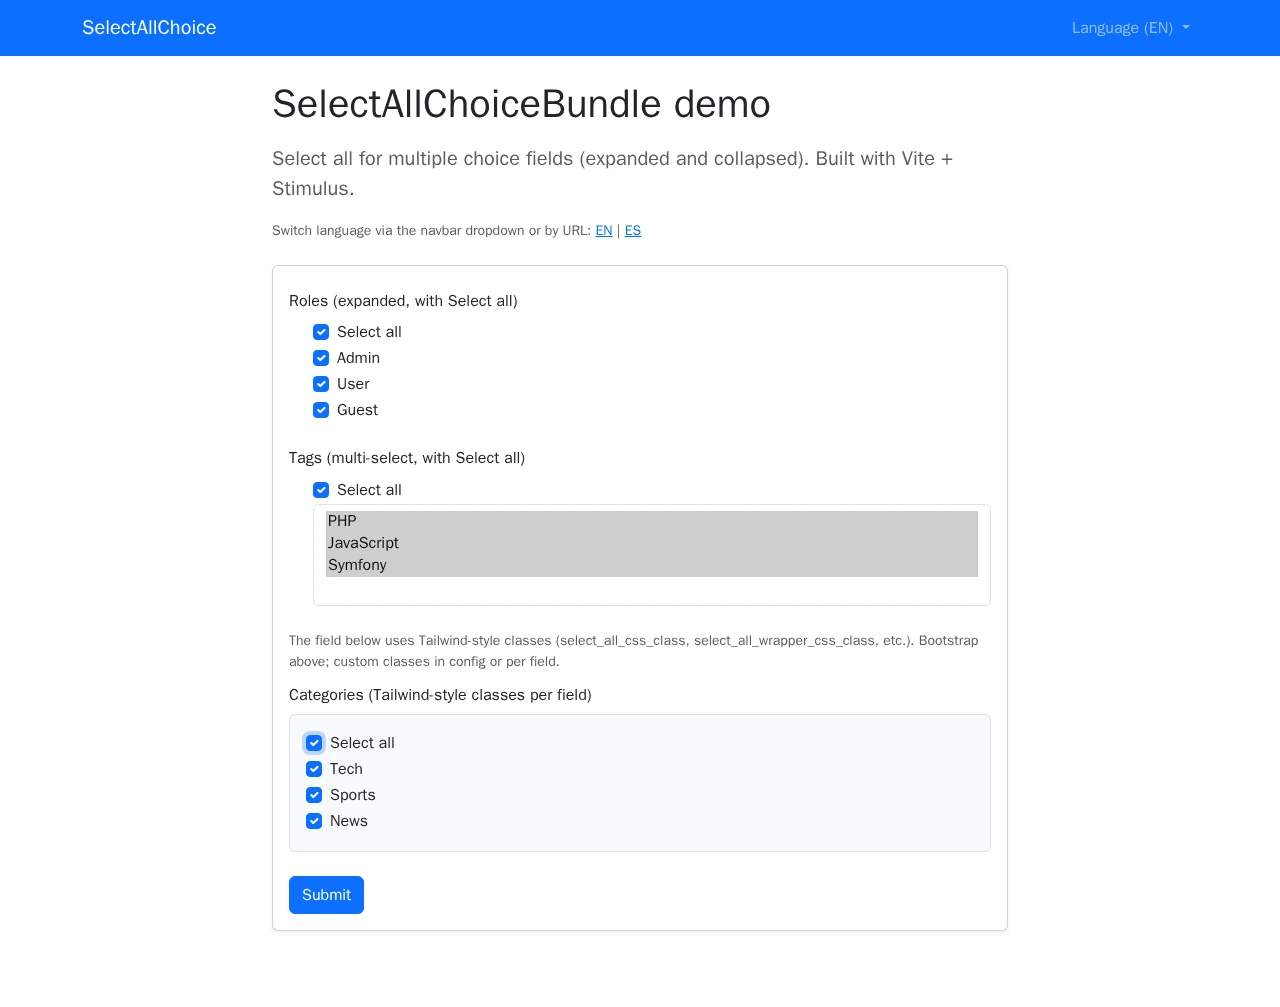
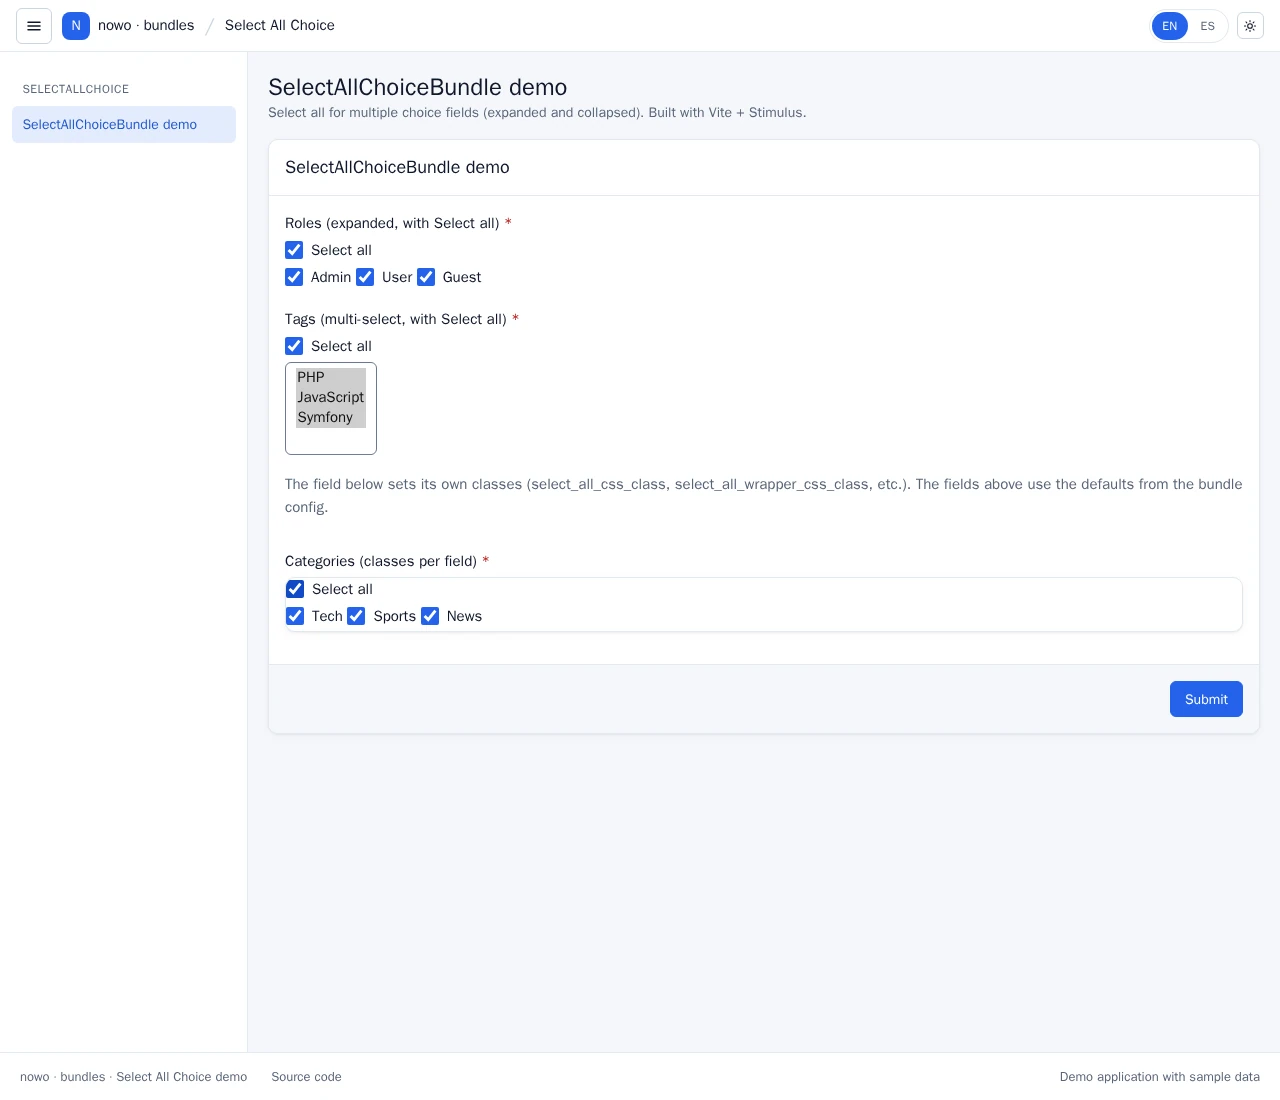
chore(demo): run the demo in UiKit's demo platform shell (#55)

diff --git a/demo/symfony8/e2e/tests/demo-platform.spec.ts b/demo/symfony8/e2e/tests/demo-platform.spec.ts
@@ -1,0 +1,184 @@
+import { test, expect, type Page } from '@playwright/test';
+import AxeBuilder from '@axe-core/playwright';
+
+/**
+ * UiKit demo platform shell (REQ-DEMO-014): layout grammar, demo styles, host theme tokens, framework classes, the
+ * closed phone drawer, 44 px touch targets and input borders on every demo page, plus axe (wcag2a / 2aa / 21a / 21aa,
+ * serious + critical = 0) in light and dark, desktop and phone, and the keyboard drawer pass.
+ */
+type Theme = 'light' | 'dark';
+type PageEntry = string | ((page: Page) => Promise<string>);
+
+async function prepare(_page: Page): Promise<void> {}
+
+async function setTheme(page: Page, theme: Theme): Promise<void> {
+  await page.evaluate((t) => {
+    document.documentElement.setAttribute('data-theme', t);
+    document.documentElement.setAttribute('data-bs-theme', t);
+  }, theme);
+}
+
+async function axe(page: Page): Promise<string[]> {
+  const result = await new AxeBuilder({ page }).withTags(['wcag2a', 'wcag2aa', 'wcag21a', 'wcag21aa']).exclude('.sf-toolbar').analyze();
+  return result.violations
+    .filter((v) => v.impact === 'serious' || v.impact === 'critical')
+    .map((v) => `${v.id}: ${v.nodes.map((n) => n.target.join(' ')).join(', ')}`);
+}
+
+/** The demo layout + style rules (docs/USAGE.md "Demo platform shell"; same function as the rollout brief's spec): layout grammar,
+ * no demo styles / host tokens / framework classes, closed drawer inert, 44 px targets on coarse pointers, input borders 3:1. */
+/* eslint-disable */
+// prettier-ignore
+function demoPlatformRules(): string[] {
+  const issues = [];
+  const main = document.querySelector('#nowo-ui-content');
+  const shell = document.querySelector('[data-testid="demo-platform"]');
+  if (!main || !shell) return ['no-demo-platform-shell'];
+  const visible = (el) => !!(el.offsetWidth || el.offsetHeight || el.getClientRects().length);
+  const carded = (el) => el.closest('.nowo-ui-card, [data-nowo-ui-region="table"], [data-nowo-ui-region="form"], .nowo-ui-form-panel, dialog');
+  const skip = (el) => el.closest('dialog, [data-nowo-ui-region="filters"], .nowo-ui-filters, .nowo-ui-page-header');
+
+  // Layout grammar.
+  main.querySelectorAll('table').forEach((t) => { if (!carded(t)) issues.push('table-outside-card'); });
+  main.querySelectorAll('form').forEach((f) => {
+    if (f.querySelector('input:not([type="hidden"]), select, textarea') && !carded(f) && !skip(f) && !f.closest('table')) issues.push('form-outside-card');
+  });
+  const primaries = [...main.querySelectorAll('.nowo-ui-btn--primary')].filter((b) => visible(b) && !b.closest('table, dialog, [data-nowo-ui-region="filters"], .nowo-ui-filters, form'));
+  if (primaries.length > 1) issues.push(`primary-buttons:${primaries.length}`);
+  const header = main.querySelector('.nowo-ui-page-header');
+  const flashes = main.querySelector('.nowo-ui-flashes');
+  if (header && flashes && (flashes.compareDocumentPosition(header) & Node.DOCUMENT_POSITION_FOLLOWING)) issues.push('flashes-before-page-header');
+  if (document.documentElement.scrollWidth > document.documentElement.clientWidth + 1) issues.push('page-scrolls-horizontally');
+
+  // Styles: no demo styles, no host theme tokens, no CDN / foreign stylesheet, no framework classes inside the shell.
+  document.querySelectorAll('style').forEach((s) => {
+    if (s.matches('[data-nowo-ui-theme-tokens], [data-nowo-ui-appearance]')) { issues.push('host-theme-tokens'); return; }
+    if (!/sf-toolbar|sfwdt|sf-minitoolbar|sf-display/.test(s.textContent || '') && !s.closest('[id^="sfwdt"], .sf-toolbar')) issues.push('style-element');
+  });
+  document.querySelectorAll('link[rel="stylesheet"]').forEach((l) => {
+    const path = new URL(l.href, location.href).pathname;
+    if (!path.startsWith('/bundles/') && !path.startsWith('/_wdt/') && !path.startsWith('/_profiler/')) issues.push(`stylesheet:${path}`);
+  });
+  const framework = /^(acme-.*|nav-tabs|nav-link|nav-item|alert|alert-.*|form-check.*|form-control|form-select|form-label|btn|btn-.*|card|card-.*|badge|row|col|col-.*|table|table-.*)$/;
+  shell.querySelectorAll('[class]').forEach((el) => {
+    for (const c of el.classList) { if (framework.test(c)) { issues.push(`framework-class:${c}`); break; } }
+  });
+
+  // Drawer: below 901 px a closed drawer is inert and the burger says so.
+  const aside = shell.querySelector('[data-nowo-ui-aside]');
+  if (aside && window.innerWidth < 901) {
+    const open = shell.classList.contains('is-aside-open-mobile');
+    if (!open && !aside.hasAttribute('inert')) issues.push('drawer-not-inert');
+    shell.querySelectorAll('[data-nowo-ui-burger]').forEach((b) => {
+      if (visible(b) && b.getAttribute('aria-expanded') !== (open ? 'true' : 'false')) issues.push('burger-state');
+    });
+  }
+
+  // Touch: 44 px targets on coarse pointers (checkbox / radio 24 px, their label carries the 44 px row).
+  if (window.matchMedia('(pointer: coarse)').matches) {
+    const controls = [...shell.querySelectorAll('.nowo-ui-btn, button, summary, input:not([type="hidden"]), select, textarea, [role="tab"], .nowo-ui-aside__link, .nowo-ui-demo-platform__locale')]
+      .filter((el) => visible(el) && !el.closest('[inert], table, .ts-control'));
+    for (const el of controls) {
+      const r = el.getBoundingClientRect();
+      const small = el.matches('input[type="checkbox"], input[type="radio"]') ? r.height < 24 || r.width < 24 : r.height < 43.5;
+      if (small) { issues.push(`target-under-44px:${(el.className && String(el.className).split(' ')[0]) || el.tagName.toLowerCase()}`); }
+    }
+  }
+
+  // Inputs: boundary 3:1 or more against the surface behind them (WCAG 1.4.11).
+  const rgb = (c) => { const m = c.match(/[\d.]+/g); return m ? m.slice(0, 4).map(Number) : null; };
+  const lum = (c) => { const v = c.slice(0, 3).map((x) => { const s = x / 255; return s <= 0.03928 ? s / 12.92 : ((s + 0.055) / 1.055) ** 2.4; }); return 0.2126 * v[0] + 0.7152 * v[1] + 0.0722 * v[2]; };
+  const bgOf = (el) => { for (let n = el.parentElement; n; n = n.parentElement) { const c = rgb(getComputedStyle(n).backgroundColor); if (c && (c.length < 4 || c[3] > 0)) return c; } return [255, 255, 255]; };
+  shell.querySelectorAll('input:not([type="hidden"], [type="checkbox"], [type="radio"]), select, textarea').forEach((el) => {
+    if (!visible(el) || el.closest('[inert]')) return;
+    const border = rgb(getComputedStyle(el).borderTopColor);
+    if (!border) return;
+    const a = lum(border); const b = lum(bgOf(el));
+    if ((Math.max(a, b) + 0.05) / (Math.min(a, b) + 0.05) < 3) issues.push(`input-border-under-3:1:${el.id || el.name || el.tagName.toLowerCase()}`);
+  });
+
+  return [...new Set(issues)];
+}
+
+
+const PAGES: PageEntry[] = ['/en', '/es'];
+
+const BUNDLE_OWNED: Array<{ path: RegExp; rule: RegExp }> = [];
+
+/** Findings on a bundle's own page are reported as bundle-owned (not patched in the demo): they are filtered here, by path and rule. */
+function demo(url: string, issues: string[]): string[] {
+  const path = new URL(url).pathname;
+  return issues.filter((issue) => !BUNDLE_OWNED.some((o) => o.path.test(path) && o.rule.test(issue)));
+}
+
+async function resolvePath(page: Page, entry: PageEntry): Promise<string> {
+  return typeof entry === 'function' ? entry(page) : entry;
+}
+
+test.describe('demo platform rules', () => {
+  // Device-emulating projects (phone / iphone ...) set their own context: the viewport blocks below do it explicitly.
+  test.beforeEach(async ({ page }, testInfo) => {
+    test.skip(/phone/i.test(testInfo.project.name), 'viewport blocks set their own context');
+    // The Symfony toolbar is dev chrome, never part of the rules or axe runs.
+    await page.addInitScript(() => {
+      document.addEventListener('DOMContentLoaded', () => {
+        const s = document.createElement('style');
+        s.textContent = '.sf-toolbar,.sf-minitoolbar,[id^="sfwdt"]{display:none!important}';
+        document.head.appendChild(s);
+      });
+    });
+  });
+
+  test('desktop 1440 px', async ({ page }) => {
+    await page.setViewportSize({ width: 1440, height: 900 });
+    await prepare(page);
+    for (const path of PAGES) {
+      await page.goto(await resolvePath(page, path));
+      expect(demo(page.url(), await page.evaluate(demoPlatformRules)), page.url()).toEqual([]);
+    }
+  });
+
+  test.describe('phone 390 px, touch', () => {
+    test.use({ viewport: { width: 390, height: 844 }, isMobile: true, hasTouch: true });
+
+    test('rules on every page', async ({ page }) => {
+      await prepare(page);
+      for (const path of PAGES) {
+        await page.goto(await resolvePath(page, path));
+        expect(demo(page.url(), await page.evaluate(demoPlatformRules)), page.url()).toEqual([]);
+      }
+    });
+
+    test('keyboard drawer pass', async ({ page }) => {
+      await prepare(page);
+      await page.goto(await resolvePath(page, PAGES[0]));
+      const aside = page.locator('[data-nowo-ui-aside]');
+      await expect(aside).toHaveAttribute('inert', '');
+      const burger = page.locator('[data-nowo-ui-burger]').first();
+      await expect(burger).toHaveAttribute('aria-expanded', 'false');
+      await burger.focus();
+      await page.keyboard.press('Enter');
+      await expect(page.getByTestId('demo-platform')).toHaveClass(/is-aside-open-mobile/);
+      await expect(page.locator('[data-nowo-ui-aside] :focus')).toHaveCount(1);
+      await expect(page.locator('.nowo-ui-main')).toHaveAttribute('inert', '');
+      await expect(page.locator('html')).toHaveClass(/nowo-ui-drawer-open/);
+      await page.keyboard.press('Escape');
+      await expect(burger).toBeFocused();
+      await expect(aside).toHaveAttribute('inert', '');
+    });
+  });
+
+  for (const theme of ['light', 'dark'] as Theme[]) {
+    for (const [name, width] of [['desktop', 1440], ['phone', 390]] as const) {
+      test(`axe clean: ${name}, ${theme}`, async ({ page }) => {
+        await page.setViewportSize({ width, height: 900 });
+        await prepare(page);
+        for (const path of PAGES) {
+          await page.goto(await resolvePath(page, path));
+          await setTheme(page, theme);
+          expect(demo(page.url(), await axe(page)), page.url()).toEqual([]);
+        }
+      });
+    }
+  }
+});

diff --git a/demo/symfony8/e2e/tests/screenshots.spec.ts b/demo/symfony8/e2e/tests/screenshots.spec.ts
@@ -3,66 +3,23 @@ import { mkdirSync } from 'node:fs';
 import { resolve } from 'node:path';
 
 /**
- * REQ-DEMO-013 — full demo frame: navbar toolbar + heading + form with
- * select-all widgets + Symfony WebProfiler toolbar.
- *
- * Playwright clips to the viewport, so we enlarge the viewport before capture.
+ * REQ-DEMO-013 — full demo frame: the demo platform shell + heading + form with
+ * select-all widgets (Symfony toolbar hidden).
  */
 const outDir = process.env.SCREENSHOT_DIR
   ? resolve(process.env.SCREENSHOT_DIR)
   : resolve(__dirname, '../../../../docs/images/demo');
 
-type Box = { x: number; y: number; width: number; height: number };
-
-async function boxOf(
-  page: import('@playwright/test').Page,
-  selector: string,
-): Promise<Box | null> {
-  const loc = page.locator(selector).first();
-  if ((await loc.count()) === 0) {
-    return null;
-  }
-  return loc.boundingBox();
-}
-
-/** Navbar → main → profiler (union), padded. */
-async function clipDemoFrame(page: import('@playwright/test').Page): Promise<Box> {
-  const nav = await boxOf(page, 'header.nowo-ui-header');
-  const main = await boxOf(page, 'main');
-  const profiler =
-    (await boxOf(page, '.sf-toolbar')) ?? (await boxOf(page, '.sf-minitoolbar'));
-  if (!nav || !main) {
-    throw new Error('Missing header.nowo-ui-header or main for SelectAllChoice screenshot clip');
-  }
-  const boxes = [nav, main, profiler].filter(Boolean) as Box[];
-  const x = Math.min(...boxes.map((b) => b.x));
-  const y = Math.min(...boxes.map((b) => b.y));
-  const right = Math.max(...boxes.map((b) => b.x + b.width));
-  const bottom = Math.max(...boxes.map((b) => b.y + b.height));
-  const pad = 8;
-  return {
-    x: Math.max(0, x - pad),
-    y: Math.max(0, y - pad),
-    width: right - x + pad * 2,
-    height: bottom - y + pad * 2,
-  };
-}
-
+/** The demo platform shell fills the viewport; the Symfony toolbar is hidden (it is not part of the demo). */
 async function prepareDemoPage(page: import('@playwright/test').Page) {
-  // Clip cannot exceed viewport — size for navbar + full form + profiler.
-  await page.setViewportSize({ width: 1280, height: 1600 });
+  await page.setViewportSize({ width: 1280, height: 1100 });
   await page.goto('/en');
-  await expect(page.locator('header.nowo-ui-header .nowo-ui-brand')).toBeVisible();
+  await page.addStyleTag({ content: '.sf-toolbar,.sf-minitoolbar,[id^="sfwdt"]{display:none!important}' });
+  await expect(page.getByTestId('demo-platform')).toBeVisible();
   await expect(page.locator('main [data-testid="demo-case"]')).toBeVisible();
   await page.waitForFunction(() => document.querySelector('[data-select-all-target="toggle"]') !== null, {
     timeout: 8000,
   });
-  // Prefer loaded profiler (status) over "Loading…".
-  await page
-    .locator('.sf-toolbar .sf-toolbar-block, .sf-toolbar-status, .sf-minitoolbar')
-    .first()
-    .waitFor({ state: 'visible', timeout: 10000 })
-    .catch(() => {});
 }
 
 test.beforeAll(() => {
@@ -70,20 +27,14 @@ test.beforeAll(() => {
 });
 
 test.describe('SelectAllChoice screenshots (full demo context)', () => {
-  test('overview — navbar + form + toolbar, select-all unchecked', async ({ page }) => {
+  test('overview — platform shell + form, select-all unchecked', async ({ page }) => {
     await prepareDemoPage(page);
     await expect(page.locator('[data-select-all-target="toggle"]')).toHaveCount(3);
     await expect(page.getByText(/Categories|Categorías/i)).toBeVisible();
-    // Prefer clip (navbar→main→profiler); fall back to fullPage if clip is short.
-    const clip = await clipDemoFrame(page);
-    if (clip.height >= 900) {
-      await page.screenshot({ path: resolve(outDir, 'overview.png'), clip });
-    } else {
-      await page.screenshot({ path: resolve(outDir, 'overview.png'), fullPage: true });
-    }
+    await page.screenshot({ path: resolve(outDir, 'overview.png') });
   });
 
-  test('interaction — navbar + form + toolbar, all select-all checked', async ({ page }) => {
+  test('interaction — platform shell + form, all select-all checked', async ({ page }) => {
     await prepareDemoPage(page);
     const toggles = page.locator('[data-select-all-target="toggle"]');
     await expect(toggles).toHaveCount(3);
@@ -93,11 +44,6 @@ test.describe('SelectAllChoice screenshots (full demo context)', () => {
       await expect(toggle).toBeChecked();
     }
     await expect(page.locator('main [data-testid="demo-case"] .nowo-ui-check__input:checked').first()).toBeVisible();
-    const clip = await clipDemoFrame(page);
-    if (clip.height >= 900) {
-      await page.screenshot({ path: resolve(outDir, 'interaction.png'), clip });
-    } else {
-      await page.screenshot({ path: resolve(outDir, 'interaction.png'), fullPage: true });
-    }
+    await page.screenshot({ path: resolve(outDir, 'interaction.png') });
   });
 });

diff --git a/docs/CHANGELOG.md b/docs/CHANGELOG.md
@@ -50,6 +50,7 @@ and this project adheres to [Semantic Versioning](https://semver.org/spec/v2.0.0
 
 ### Changed (tooling)
 
+- Demo: runs in UiKit's demo platform shell (`nowo-tech/ui-kit-bundle` ^2.60); the demo's own header is gone and the pages use the shell page headers and section cards. Demo only, no bundle change.
 - Demo `release-verify` follows redirects and requires HTTP 200 (REQ-TEST-011).
 - `.github/CODEOWNERS`: duplicated block removed.
 
